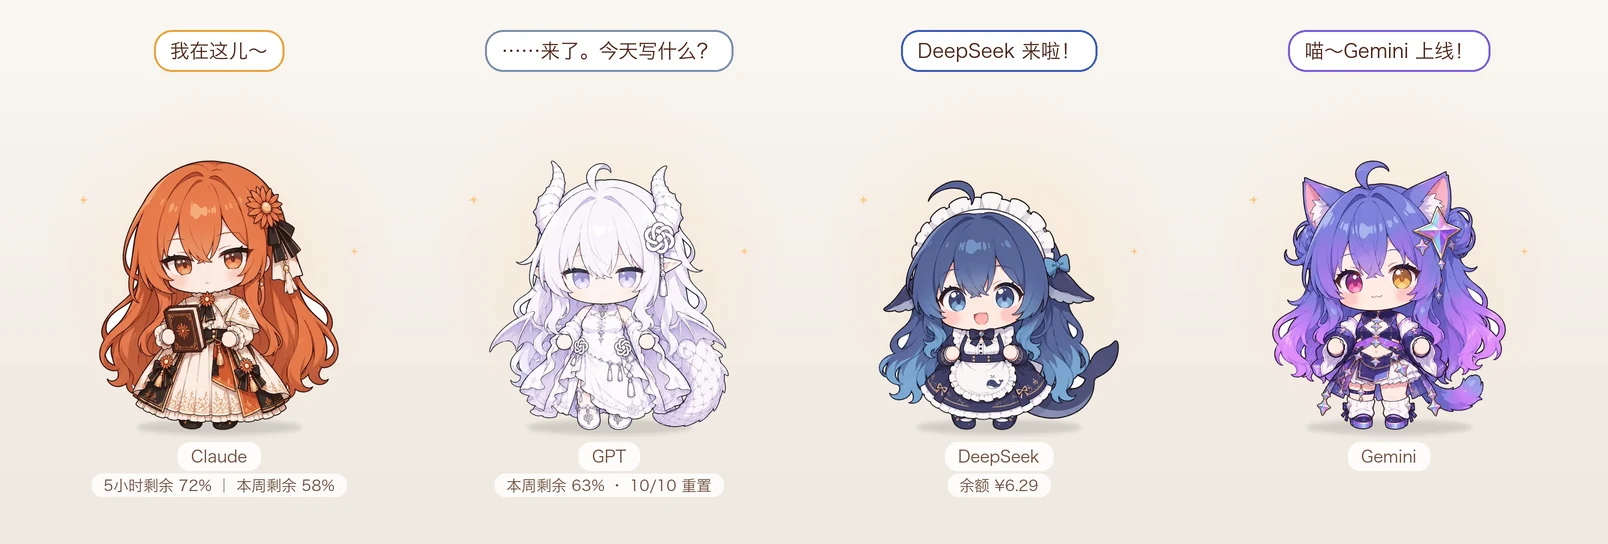
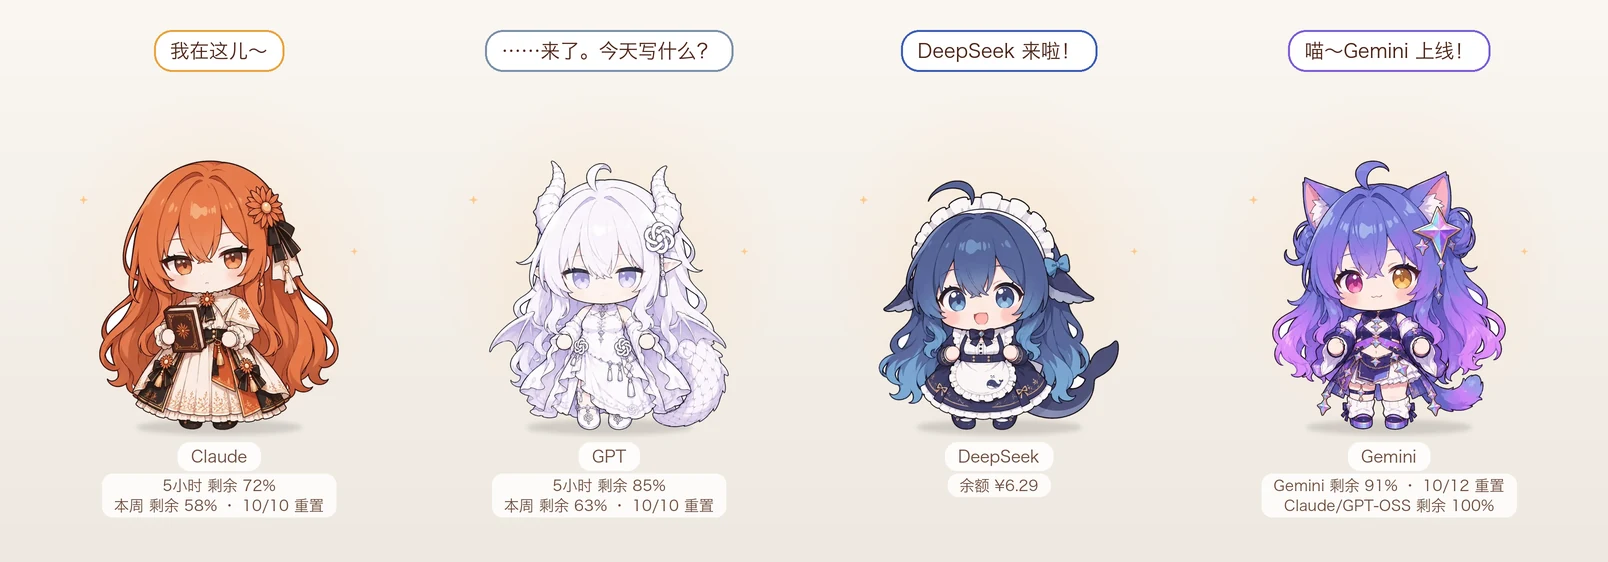
1.0.11：额度按窗口 / 额度池分行显示
- 「｜」隔开的每段占一行，不再在半中间折行（Claude 5小时/每周、GPT Plus 5小时/每周、Gemini 各额度池）
- 名字和「剩余」之间统一加空格
- 用模拟数据确认 Codex Plus 的 5 小时窗口能正确显示和触发「累了」
- README 配图同步

diff --git a/app/web/index.html b/app/web/index.html
@@ -40,6 +40,7 @@ html, body { margin: 0; background: transparent; overflow: hidden; -webkit-user-
 #caption:empty { visibility: hidden; }
 #quota { max-width: 236px; text-align: center; line-height: 1.35; margin-top: 2px; padding: 1px 8px; border-radius: 7px; background: rgba(255,255,255,.8); color: #6b4a3a; font-size: 10px; }
 #quota:empty { display: none; }
+#quota div { white-space: nowrap; }
 #quota.low { color: #c0392b; background: rgba(255,236,236,.92); }
 
 /* 身体动作：切换时用 animation 平滑接上 */
@@ -183,7 +184,10 @@ function say(line) {
 }
 function renderQuota() {
   const q = egg ? null : quota[charId], el = $('quota')
-  el.textContent = q?.text || ''
+  // 多个额度窗口 / 额度池用「｜」隔开，每个占一行，不在半中间折行
+  el.replaceChildren(...(q?.text || '').split(/\s*｜\s*/).filter(Boolean).map(t => {
+    const line = document.createElement('div'); line.textContent = t; return line
+  }))
   el.className = q?.low ? 'low' : ''
 }
 function restPose() { return quota[charId]?.low ? 'tired' : 'idle' }

diff --git a/app/CrossPet.swift b/app/CrossPet.swift
@@ -329,7 +329,7 @@ final class App: NSObject, NSApplicationDelegate, WKNavigationDelegate {
             let maxUsed = windows.map { $0.used }.max() ?? 0
             var marked = false
             let parts = windows.map { w -> String in
-                var piece = "\(w.label)剩余 \(max(0, 100 - Int(w.used.rounded())))%"
+                var piece = "\(w.label) 剩余 \(max(0, 100 - Int(w.used.rounded())))%"
                 if !marked, w.used == maxUsed, let reset = w.reset {
                     marked = true
                     let d = Date(timeIntervalSince1970: reset)

diff --git a/integrations/claude-code/mod/hooks/register.ts b/integrations/claude-code/mod/hooks/register.ts
@@ -30,7 +30,7 @@ function quotaOf(limits: Limit[]) {
   const pad = (n: number) => String(n).padStart(2, '0')
   const parts = shown.map(l => {
     const label = l.kind === 'five_hour' ? '5小时' : l.kind === 'seven_day' ? '本周' : '花费'
-    let piece = `${label}剩余 ${Math.max(0, 100 - Math.round(l.percentUsed))}%`
+    let piece = `${label} 剩余 ${Math.max(0, 100 - Math.round(l.percentUsed))}%`
     if (l === top && l.resetsAt) {
       const d = new Date(l.resetsAt)
       const soon = d.getTime() - Date.now() < 86_400_000

diff --git a/tools/readme_images.py b/tools/readme_images.py
@@ -22,10 +22,10 @@ FONT = "/System/Library/Fonts/Hiragino Sans GB.ttc"
 
 # (角色, 姿态, 气泡, 额度)
 HERO = [
-    ("claude", "idle", "我在这儿～", "5小时剩余 72% ｜ 本周剩余 58%"),
-    ("gpt", "idle", "……来了。今天写什么？", "本周剩余 63% · 10/10 重置"),
+    ("claude", "idle", "我在这儿～", "5小时 剩余 72% ｜ 本周 剩余 58% · 10/10 重置"),
+    ("gpt", "idle", "……来了。今天写什么？", "5小时 剩余 85% ｜ 本周 剩余 63% · 10/10 重置"),
     ("deepseek", "idle", "DeepSeek 来啦！", "余额 ¥6.29"),
-    ("gemini", "idle", "喵～Gemini 上线！", None),
+    ("gemini", "idle", "喵～Gemini 上线！", "Gemini 剩余 91% · 10/12 重置 ｜ Claude/GPT-OSS 剩余 100%"),
 ]
 ACTIONS = [
     ("claude", "reading", "我看看这里写了什么", None), ("gpt", "running", "跑一下测试。", None),
@@ -112,7 +112,7 @@ def tile(cid, pose, line, quota, fx_img, aura):
     accent = cfg.get("accent", "#e0b48a")
     W = WIN_W * S
     bubble_h = 40 * S
-    H = (bubble_h + STAGE_H * S + 50 * S)
+    H = (bubble_h + STAGE_H * S + 62 * S)
     im = Image.new("RGBA", (W, H), (0, 0, 0, 0))
     sx = (W - STAGE_W * S) // 2
     sy = bubble_h
@@ -166,8 +166,15 @@ def tile(cid, pose, line, quota, fx_img, aura):
         pill(d, W / 2, 4 * S, line, font(13), (255, 255, 255, 242), (74, 36, 24), border=hex_rgb(accent), pad=(11, 5), radius=12)
     y = sy + STAGE_H * S - 2 * S
     y = pill(d, W / 2, y, cfg.get("name", cid), font(11), (255, 255, 255, 217), (107, 74, 58))
-    if quota:
-        pill(d, W / 2, y + 2 * S, quota, font(10), (255, 255, 255, 204), (107, 74, 58), pad=(8, 1), radius=7)
+    if quota:  # 和 App 一样：「｜」隔开的每段占一行，放在同一块底板里
+        lines = [t.strip() for t in quota.split("｜") if t.strip()]
+        f = font(10)
+        lh = f.size * 1.35
+        w = max(d.textlength(t, font=f) for t in lines) + 16 * S
+        top = y + 2 * S
+        d.rounded_rectangle([W / 2 - w / 2, top, W / 2 + w / 2, top + lh * len(lines) + 2 * S], radius=7 * S, fill=(255, 255, 255, 204))
+        for i, t in enumerate(lines):
+            d.text((W / 2, top + S + lh * (i + .5)), t, font=f, fill=(107, 74, 58), anchor="mm")
     return im
 
 

diff --git a/docs/接入教程.md b/docs/接入教程.md
@@ -76,7 +76,7 @@ Codex 命令行和 ChatGPT 桌面版里的 Codex 都有效。画图（`image_gen
 
 右键桌宠 → 勾选「显示 GPT 额度（读取 Codex 会话记录）」。
 
-Codex 每次回复后会把额度用量记进 `~/.codex/sessions/` 的会话记录。勾选后 CrossPet 每分钟读最新那条，**只提取额度数字**（几个窗口各用了百分之多少、什么时候重置），不读也不保存对话内容。默认关闭。
+Codex 每次回复后会把额度用量记进 `~/.codex/sessions/` 的会话记录。Plus 等有 5 小时额度的账号会显示两行（`5小时 剩余 …`、`本周 剩余 …`），只有每周额度的就一行。勾选后 CrossPet 每分钟读最新那条，**只提取额度数字**（几个窗口各用了百分之多少、什么时候重置），不读也不保存对话内容。默认关闭。
 
 ---
 
